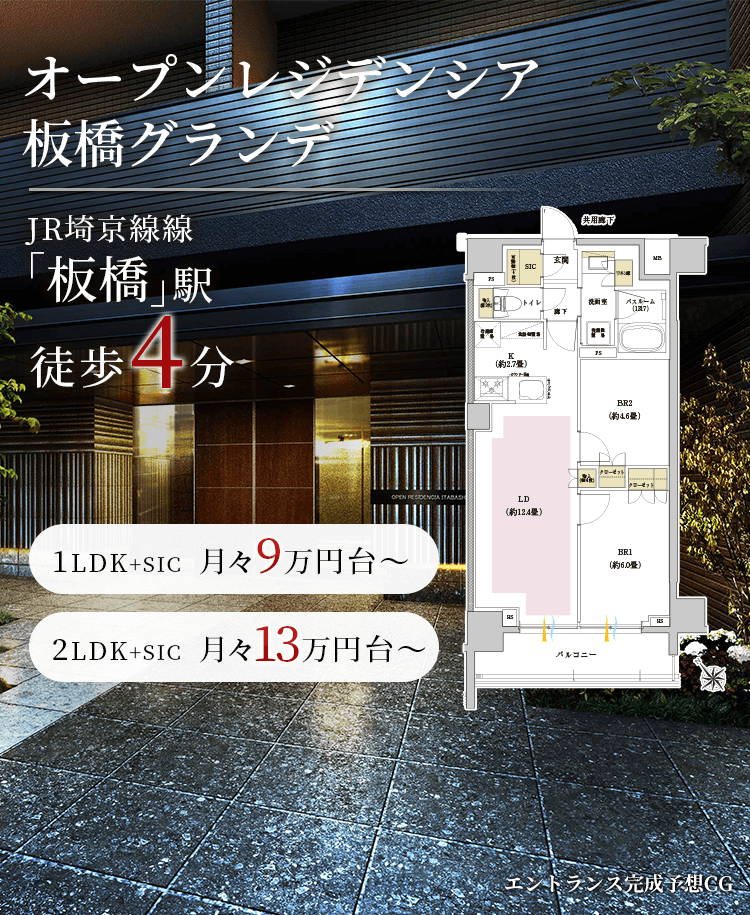
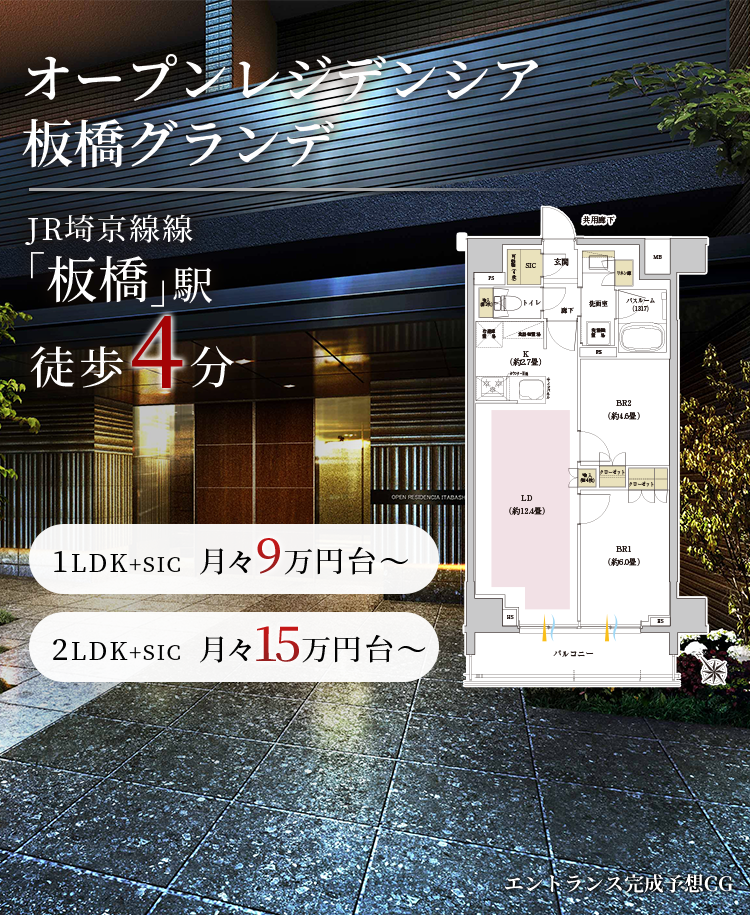
fix:KV差し替え、Ba1タイプをBbタイプに変更[lp]

diff --git a/index.html b/index.html
@@ -672,7 +672,7 @@
                 </div>
               </div>
               <div class="m-sec3Block__type_item inviewFadeIn">
-                <div class="m-sec3Block__type_type">Ba1 type</div>
+                <div class="m-sec3Block__type_type">Bb type</div>
                 <div class="m-sec3Block__type_room">2LDK<span>+SIC</span></div>
                 <div class="m-sec3Block__type_floor">
                   <span class="txt">専有面積</span>
@@ -691,13 +691,13 @@
                   </ul>
                 </div>
                 <div class="m-sec3Block__type_img">
-                  <picture class="lozad" data-alt="Ba1 type 間取り">
-                    <source srcset="./01/img/sec3_type_ba1.png"/>
+                  <picture class="lozad" data-alt="Bb type 間取り">
+                    <source srcset="./01/img/sec3_type_bab.png"/>
                   </picture>
                 </div>
                 <div class="hanrei">
-                  <picture class="lozad" data-alt="Ba1 type 凡例">
-                    <source srcset="./01/img/sec3_hanrei_ba1.png"/>
+                  <picture class="lozad" data-alt="Bb type 凡例">
+                    <source srcset="./01/img/sec3_hanrei_bb.png"/>
                   </picture>
                 </div>
               </div>
@@ -973,13 +973,14 @@
                     ●月々の返済額(年12回)：98,324円 ●ボーナス時加算額(年2回)：257,452円 ●取扱金融機関：住信SBIネット銀行<br>
                     ●金利プラン：変動・0.435％（弊社提携ローンにてお申し込みの場合） ●返済期間：35年<br>
                     <br>
-                    ■Ba1タイプ（202号室・2LDK・56.94㎡）返済例概要 <br>
-                    ●販売金額：8,788万円   ●頭金：878万円  ●借入金額：7,910万円(内ボーナス支払分 2,460万円) <br>
-                    ●月々の返済額(年12回)：139,914円 ●ボーナス時加算額(年2回)：379,240円 ●取扱金融機関：住信SBIネット銀行 <br>
-                    ●金利プラン：変動・0.435％（弊社提携ローンにてお申し込みの場合） ●返済期間：35年 <br>
+                    ■Bbタイプ（403号室・2LDK・56.94㎡）返済例概要<br>
+                    ●販売金額：9,288万円 ●頭金：928万円 ●借入金額：8,360万円(内ボーナス支払分 2,200万円)<br>
+                    ●月々の返済額(年12回)：158,141円 ●ボーナス時加算額(年2回)：339,158円 ●取扱金融機関：住信SBIネット銀行<br>
+                    ●金利プラン：変動・0.435％（弊社提携ローンにてお申し込みの場合） ●返済期間：35年<br>
+                    <br>
                     ※2025年1月現在の金利で算出しております。<br>
-                    ※実際の金利はご融資が実行された時点のものが適応となり、今後の金利変動によっては記載の金利・ <br>
-                    返済概要と異なる場合がございます。※上記支払い例では、繰り上げ返済などは考慮しておりません。 <br>
+                    ※実際の金利はご融資が実行された時点のものが適応となり、今後の金利変動によっては記載の金利・<br>
+                    返済概要と異なる場合がございます。※上記支払い例では、繰り上げ返済などは考慮しておりません。<br>
                     <br>
                     ■住宅ローン概要●取扱金融機関：住信SBIネット銀行　●融資限度額：500万円以上2億円以下（10万円単位）●利率：変動金利年0.435％（期間35年） <br>
                     （借入期間に応じて適応金利が異なります。弊社提携ローンにてお申し込みの場合、基準金利3.025％より最大2.59％優遇）　●返済期間：1年以上50年以内 <br>
